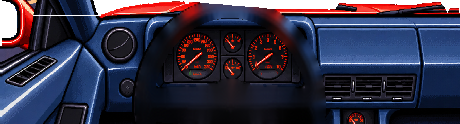
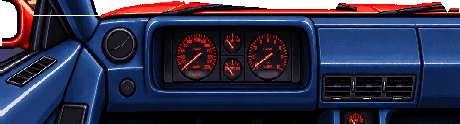
Furia TR: painel atrás do volante a partir da arte sem volante do Victor (no lugar do refeito por inpainting)
Claude-Session: https://claude.ai/code/session_01MLD9VR7gkmY4w6a9beZcp6

diff --git a/tools/ref/testarossa_cockpit.py b/tools/ref/testarossa_cockpit.py
@@ -2,8 +2,8 @@
 - para-brisa e janela da porta (a paisagem da arte) viram vidro transparente; as palhetas do
   limpador e o retrovisor interno saem (o jogo desenha o dele); o espelho do retrovisor externo
   esquerdo fica transparente (o jogo mostra nele a vista de trás)
-- o volante é recortado pela geometria (aro, raios e miolo) e o painel atrás dele é refeito
-  (inpainting) para quando ele gira; o cavalinho do miolo vira o emblema da Fúria (brand_badges.py)
+- o volante é recortado pela geometria (aro, raios e miolo); o painel atrás dele vem da arte sem
+  volante (cab-nowheel.png, na mesma pasta), ou é refeito por inpainting se ela não existir; o cavalinho do miolo vira o emblema da Fúria (brand_badges.py)
 - o quadro de instrumentos (Veglia laranja) é desenhado por cima pelo jogo (tools/ref/testarossa_gauges.py)
 Escala 0,34 (pixel 8:7), pivô do volante no centro da tela.
 
@@ -115,6 +115,14 @@ def main():
     fill = cv2.resize(fill, (W, H), interpolation=cv2.INTER_CUBIC)
     dash = art.copy()
     dash[hole > 0] = fill[hole > 0]
+    # arte sem volante (cab-nowheel.png, do Victor): o painel de verdade atrás do volante; vem
+    # deslocada ~1 px para cima e para a esquerda em relação à arte com volante
+    nw_path = os.path.join(os.path.dirname(src), 'cab-nowheel.png')
+    if os.path.exists(nw_path):
+        nw = np.array(Image.open(nw_path).convert('RGB'))
+        M = np.float32([[1, 0, 1.0], [0, 1, 1.5]])
+        nw = cv2.warpAffine(nw, M, (W, H), flags=cv2.INTER_NEAREST, borderMode=cv2.BORDER_REPLICATE)
+        dash = nw
 
     y0d = PIV[1] - PIV_N[1] * PXH
     xs, ys = grid(y0d, ROWS)
